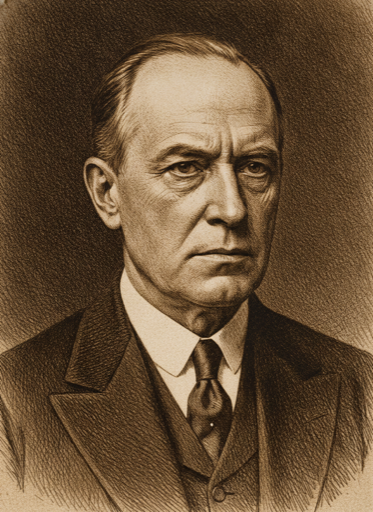
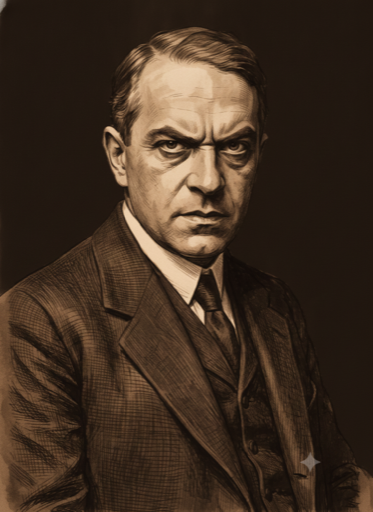
#450: promote Warburg's fixed reaction set, closing out batch 2
Rachel confirmed the reference-anchored, expression-forced regeneration of
Warburg's thinking/angry (see prior commit) matches baseline's likeness with
genuine distinct expressions. All 30 images (10 members × 3 reactions) for
batch 2 are now promoted.

diff --git a/public/portraits/STYLE_GUIDE.md b/public/portraits/STYLE_GUIDE.md
@@ -31,7 +31,7 @@ AI-generated, proof-of-concept register for this stage of the project. Not commi
 
 ## Changelog
 
-- 2026-08-28 — [#450](https://github.com/msdixon/secret-cabinet/issues/450) batch 2 correction: Rachel's review of the batch-2 PR ([#472](https://github.com/msdixon/secret-cabinet/pull/472)) caught that the reference-image fix below over-corrected — with a strong reference and only a mild expression instruction, gemini-2.5-flash-image mostly reproduced the reference photo's own neutral expression instead of the requested reaction. Ibn Arabi's `thinking`/`angry` read as near-duplicates of each other; Dee/Llull/Pixie/Maud/Khaldun's three reactions were each barely distinguishable from their own baseline; Khaldun's `happy` additionally picked up an unrelated, unrealistic light-eyed glow. Fixed by adding an explicit "do not reuse the reference's expression — that's the one thing you must change" instruction and switching each reaction's description from mood adjectives to concrete physical detail (mouth/eyes/brow position) — confirmed on Dee/Khaldun/Arabi before regenerating the full set. All 18 non-Warburg candidates re-promoted on this fix. Warburg held back separately: the promoted `thinking`/`angry` (generated in the original text-only pass, before reference-image anchoring existed) read as a fuller, older, different face than baseline/`happy` — regenerated with the same reference-anchored, expression-forced approach and pending Rachel's confirmation before promotion.
+- 2026-08-28 — [#450](https://github.com/msdixon/secret-cabinet/issues/450) batch 2 correction: Rachel's review of the batch-2 PR ([#472](https://github.com/msdixon/secret-cabinet/pull/472)) caught that the reference-image fix below over-corrected — with a strong reference and only a mild expression instruction, gemini-2.5-flash-image mostly reproduced the reference photo's own neutral expression instead of the requested reaction. Ibn Arabi's `thinking`/`angry` read as near-duplicates of each other; Dee/Llull/Pixie/Maud/Khaldun's three reactions were each barely distinguishable from their own baseline; Khaldun's `happy` additionally picked up an unrelated, unrealistic light-eyed glow. Fixed by adding an explicit "do not reuse the reference's expression — that's the one thing you must change" instruction and switching each reaction's description from mood adjectives to concrete physical detail (mouth/eyes/brow position) — confirmed on Dee/Khaldun/Arabi before regenerating the full set. All 18 non-Warburg candidates re-promoted on this fix. Warburg held back separately: the promoted `thinking`/`angry` (generated in the original text-only pass, before reference-image anchoring existed) read as a fuller, older, different face than baseline/`happy` — regenerated with the same reference-anchored, expression-forced approach. Rachel confirmed the re-run was correct and all three were promoted, closing out the full 30-image (10 member × 3 reaction) batch 2 set.
 - 2026-08-28 — [#450](https://github.com/msdixon/secret-cabinet/issues/450) batch 2: the reaction set (happy/thinking/angry) generated for the next 10 roster members past the pilot cohort (Waite, Coleman-Smith, Blavatsky, Lévi, Ibn Arabi, Maud Gonne, Llull, Ibn Khaldun, Dee, Warburg), budget approved by Rachel via the Gemini billing dashboard. First-pass candidates drifted from several members' baselines on plain text re-description alone — Pixie lost ethnic ambiguity/earrings/layered dress and over-warmed; Ibn Arabi grew a beard and aged; Maud lost her distinctive draped shawl and upswept hair, reading as different women per reaction; Ibn Khaldun read notably younger than his deeply lined baseline; Llull lost his skullcap; Dee lost his sharp cheekbones, pointed groomed beard, and black skullcap (drifting to a beret-like cap); Warburg's `happy` alone read deracialized and jowlier. Fixed by extending `generatePortraitImage` (`src/portrait-generation.js`) to accept `referenceImages`, attaching each member's own baseline portrait to the regeneration call — gemini-2.5-flash-image treats a leading reference image as a much stronger likeness/attire anchor than prose alone, and it resolved every flagged issue on one re-run. Also folded in a standing "no vignette, flat background matching the reference" instruction after inconsistent vignetting showed up across the set (Rachel's call: fix it in the prompt going forward rather than re-running to patch it after the fact). Waite's mild vignette was reviewed and judged not to need a fix — still clearly him across all three. Rachel reviewed and approved all 30 images (10 members × 3 reactions) before promotion; Blavatsky, Lévi, and Waite's full sets plus Warburg's thinking/angry promoted directly, the other 19 after the reference-image re-run.
 - 2026-08-28 — [#449](https://github.com/msdixon/secret-cabinet/issues/449)/[#450](https://github.com/msdixon/secret-cabinet/issues/450) pilot: a new per-member reaction set (happy/thinking/angry, `public/portraits/<id>-<reaction>.png`) generated and placed for a 3-member pilot cohort (Crowley, Yeats, Teresa) via the same #435 Gemini pipeline, ahead of a full-roster batch. Crowley's baseline `crowley.png` was also regenerated in the same pass — the original had him in a plain suit while the new reaction portraits put him in his ceremonial robe/sash, and two rounds of regeneration were needed to land the whole 4-image set (baseline + 3 reactions) on a consistent flat dark background and warm sepia palette (an early pass drifted red-toned on two of the four and left a light vignette/edge bleed the rest of the set doesn't have). Rachel validated all 10 images (the Crowley set explicitly, Yeats/Teresa by extension) before promotion. Not yet wired into any client rendering — this is image generation only, pending a separate decision on the trigger-to-display path.
 - 2026-08-25 — [#435](https://github.com/msdixon/secret-cabinet/issues/435) closed the loop #259 stopped short of: `POST /api/members` now calls the Gemini API (`gemini-2.5-flash-image`) directly, server-side, no agent session needed — confirmed real, directly server-callable key access (not the ElevenLabs MCP path #259's changelog entry below describes). Spiked before building: a real `curl` call confirmed the presigned-URL download path works, `sips -Z 512` reproduces the 512px convention, and `generationConfig.imageConfig.aspectRatio` genuinely controls orientation (existing portraits aren't perfectly uniform — Crowley is near-square at 512×466 — but `3:4` matches the majority and is the new default). Prompt-drafting was rebuilt around Rachel's own established generation template (Subject/Style/Composition/Lighting-Mood) rather than the ad hoc structure #259 used, with two hard constraints layered on top after a real test generation drifted without them: explicit portrait-orientation and an explicit "no scene elements at all" background rule (the template's own "minimal background distraction" phrasing let a bookshelf leak into a test image). Candidates land at `public/portraits/candidates/<id>.png`, never the canonical path automatically — `node scripts/promote-portrait.js <id>` is the human-reviewed promotion step (resize, place, delete the candidate + its `PENDING-PROMPTS.md` entry; the Changelog line itself stays yours to write, on purpose).
